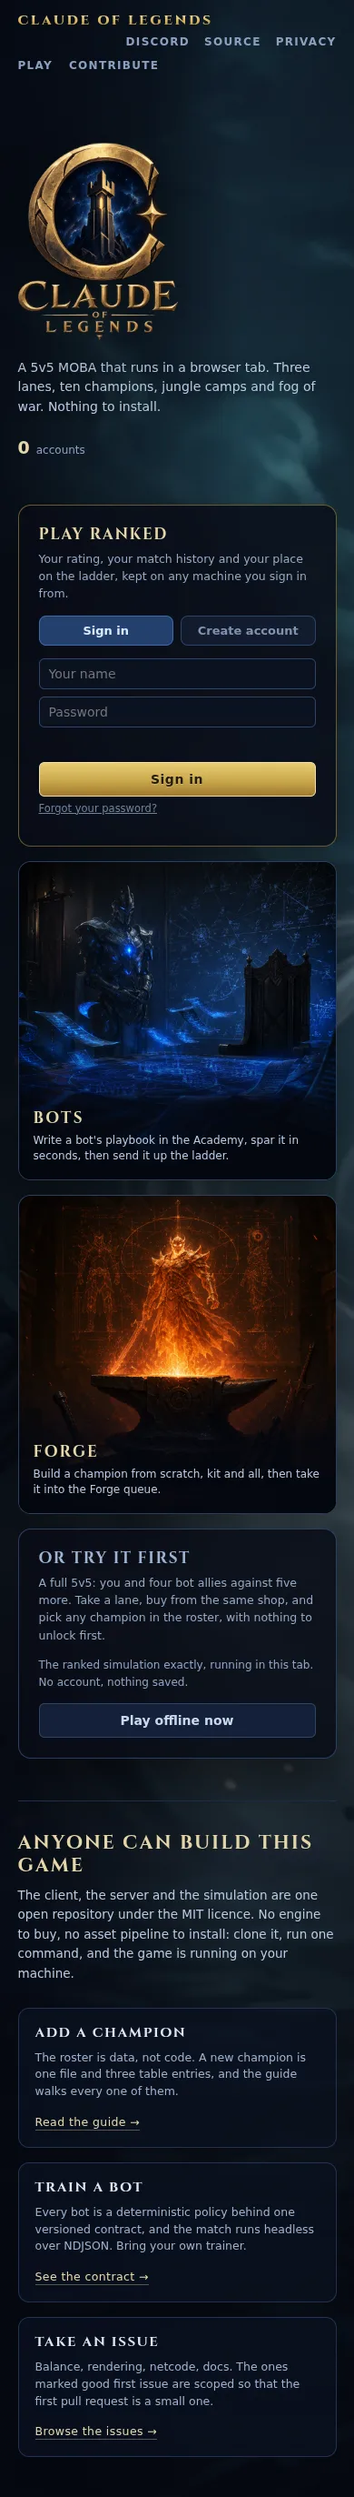
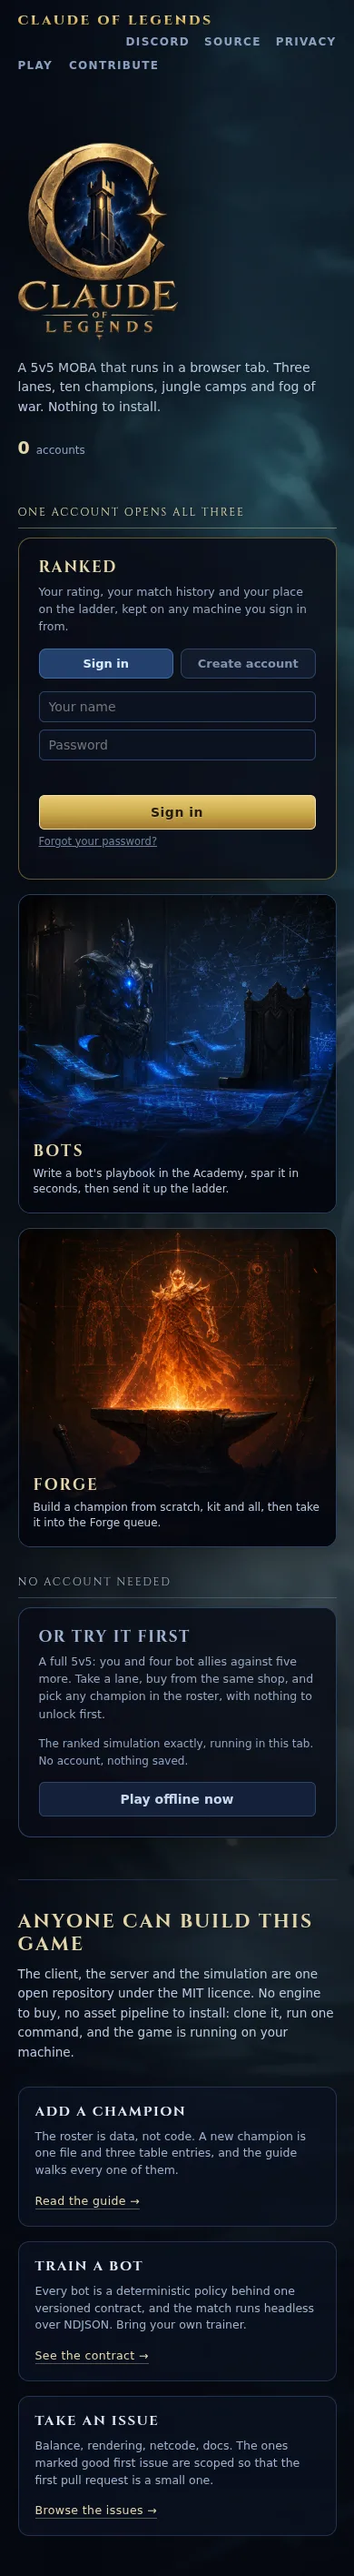
fix(ui): the landing groups the three modes an account opens
Four equal columns said the wrong thing. The sign-in form sat under the
word RANKED with Bots and the Forge standing beside it, so an account
read as the price of the ladder and the other two read as something else
entirely. They are not: one account opens all three (ADR 0006), and the
only thing on the row that needs none is the practice match.

So the three are grouped under one heading that says exactly that, and
the practice match stands apart under its own. The row divides ten to
three, and the group divides its own width 4, 3, 3 as before, so nothing
about the proportions changes; what changes is that RANKED, BOTS and
FORGE now read as three parallel modes rather than as one offer and two
strangers. The first card is titled for its mode instead of for the act,
since the heading above it already carries the act.

The headings sit on the backdrop rather than on a card, and the backdrop
has a moon in it: without a shadow the right-hand one vanishes into it
exactly where it is needed. Stacked, they are the only thing separating
the two groups, so the gap between groups widens past the gap inside one.

Checked at 1440, 1000 and 390.

Claude-Session: https://claude.ai/code/session_01WKjgxdPhUBwTDP4xpmi7eg

diff --git a/src/ui/landing.ts b/src/ui/landing.ts
@@ -22,13 +22,34 @@ import { buildPage, ensurePageCss, mountLiveStats, navLink } from './page';
 // Only what the landing page adds to the shared chrome: the bento, which
 // is the home's row of tiles as a visitor can have it.
 const CSS = `
-/* The row reads the way the home's tiles do (ui/play_tiles.ts): the way
-   in widest on the left, then Bots and the Forge standing beside it, then
-   the smaller way in at the far right. Thirteen columns so 4, 3, 3 and 3
-   divide the row with the gaps; the sign-in form is what sets the widest
-   track, since it is the one thing here somebody has to type into. */
-.pg.land .pg-cards { display: grid; max-width: 1180px; gap: 16px; align-items: stretch;
-  grid-template-columns: minmax(0, 4fr) minmax(0, 3fr) minmax(0, 3fr) minmax(0, 3fr); }
+/* Two doors, and the row has to say which is which. Four equal columns
+   said the opposite: the form sat under the word RANKED with Bots and the
+   Forge beside it, so an account read as the price of the ladder and the
+   other two read as something else entirely. They are not. One account
+   opens all three (ADR 0006), and the only thing here that needs no
+   account is the practice match at the end.
+   So the three that need one are grouped under one heading and the one
+   that does not stands apart. Ten to three, and the group divides its own
+   width 4, 3, 3: the sign-in form sets the widest track, since it is the
+   one thing on this row somebody has to type into. */
+.pg.land .pg-cards { display: grid; max-width: 1180px; gap: 18px; align-items: stretch;
+  grid-template-columns: minmax(0, 10fr) minmax(0, 3fr); }
+.pg-door { display: flex; flex-direction: column; min-width: 0; }
+/* The heading is the whole point of the regrouping, so it is a rule the
+   group hangs from rather than a caption floating above it. */
+/* These sit on the backdrop rather than on a card, and the backdrop has a
+   moon in it: without the shadow the right-hand heading disappears into
+   it exactly where it is most needed. The cards get their contrast from
+   their own dark fill (ui/page.ts); this is the same job done by hand. */
+.pg-door-label { font-family: Cinzel, Georgia, serif; font-size: 12px; letter-spacing: 1.8px;
+  text-transform: uppercase; color: #cddaee; margin: 0 0 10px; padding-bottom: 9px;
+  border-bottom: 1px solid rgba(140, 168, 208, 0.34);
+  text-shadow: 0 2px 10px rgba(4, 7, 16, 0.95), 0 0 26px rgba(4, 7, 16, 0.85); }
+.pg-door.paid .pg-door-label { color: #f0e2b6;
+  border-bottom-color: rgba(230, 215, 168, 0.42); }
+.pg-door-row { display: grid; gap: 16px; align-items: stretch; flex: 1; min-width: 0; }
+.pg-door.paid .pg-door-row {
+  grid-template-columns: minmax(0, 4fr) minmax(0, 3fr) minmax(0, 3fr); }
 .pg.land .pg-card .menu-btn { margin-top: auto; }
 
 /* Bots and the Forge, standing between the two ways in the way they stand
@@ -58,15 +79,19 @@ const CSS = `
    is only ever as wide as its form wants to be, which is what the narrower
    ceiling is for. */
 @media (max-width: 1120px) {
-  .pg.land .pg-cards { grid-template-columns: repeat(2, minmax(0, 1fr)); max-width: 620px; }
-  .pg.land .pg-card { grid-column: 1 / -1; }
+  /* Stacked, the two headings are the only thing separating the doors, so
+     the gap between the groups has to be wider than the gap inside one. */
+  .pg.land .pg-cards { grid-template-columns: minmax(0, 1fr); max-width: 620px; gap: 30px; }
+  .pg.land .pg-door.paid .pg-door-row { grid-template-columns: repeat(2, minmax(0, 1fr)); }
+  .pg.land .pg-door.paid .pg-card { grid-column: 1 / -1; }
   .pg-mode { min-height: 0; aspect-ratio: 3 / 4; }
 }
 /* One column, and the panel goes square: the paintings are square to
    begin with, so at 1/1 the tile is the whole painting and nothing is
-   cropped at all. */
+   cropped at all. The two headings matter most here, where the row is a
+   stack and nothing else says where one door ends and the other starts. */
 @media (max-width: 620px) {
-  .pg.land .pg-cards { grid-template-columns: minmax(0, 1fr); }
+  .pg.land .pg-door.paid .pg-door-row { grid-template-columns: minmax(0, 1fr); }
   .pg-mode { aspect-ratio: 1 / 1; }
 }
 
@@ -196,9 +221,13 @@ export function showLanding(
     // --- the two ways in ---
     const ways = el('div', 'pg-cards');
 
+    // Named for the mode, not for the act: under one heading that says an
+    // account opens all three, this column is the first of the three and
+    // happens to be the one carrying the form. Titled "Play ranked" it
+    // read as the only thing signing up bought you.
     const online = el('section', 'pg-card gold');
     online.append(
-      el('h2', '', 'Play ranked'),
+      el('h2', '', 'Ranked'),
       el(
         'p',
         '',
@@ -234,9 +263,14 @@ export function showLanding(
       offlineBtn,
     );
 
-    // Between the two ways in, the two modes behind them, standing where
+    // The three an account opens, under one heading, so that signing up
+    // reads as buying all of it rather than as the price of the ladder.
+    // Ranked carries the form; Bots and the Forge stand beside it where
     // the home stands their tiles.
-    ways.appendChild(online);
+    const paid = el('div', 'pg-door paid');
+    paid.appendChild(el('p', 'pg-door-label', 'One account opens all three'));
+    const paidRow = el('div', 'pg-door-row');
+    paidRow.appendChild(online);
     for (const mode of LANDING_MODES) {
       const art = el('img', '');
       art.src = mode.art;
@@ -248,9 +282,18 @@ export function showLanding(
       body.append(el('h3', '', mode.title), el('p', '', mode.line));
       const item = el('article', 'pg-mode');
       item.append(art, body);
-      ways.appendChild(item);
+      paidRow.appendChild(item);
     }
-    ways.appendChild(offline);
+    paid.appendChild(paidRow);
+
+    // And the one that opens by itself.
+    const free = el('div', 'pg-door free');
+    free.appendChild(el('p', 'pg-door-label', 'No account needed'));
+    const freeRow = el('div', 'pg-door-row');
+    freeRow.appendChild(offline);
+    free.appendChild(freeRow);
+
+    ways.append(paid, free);
     inner.appendChild(ways);
 
     // --- and the thing the genre does not offer ---
